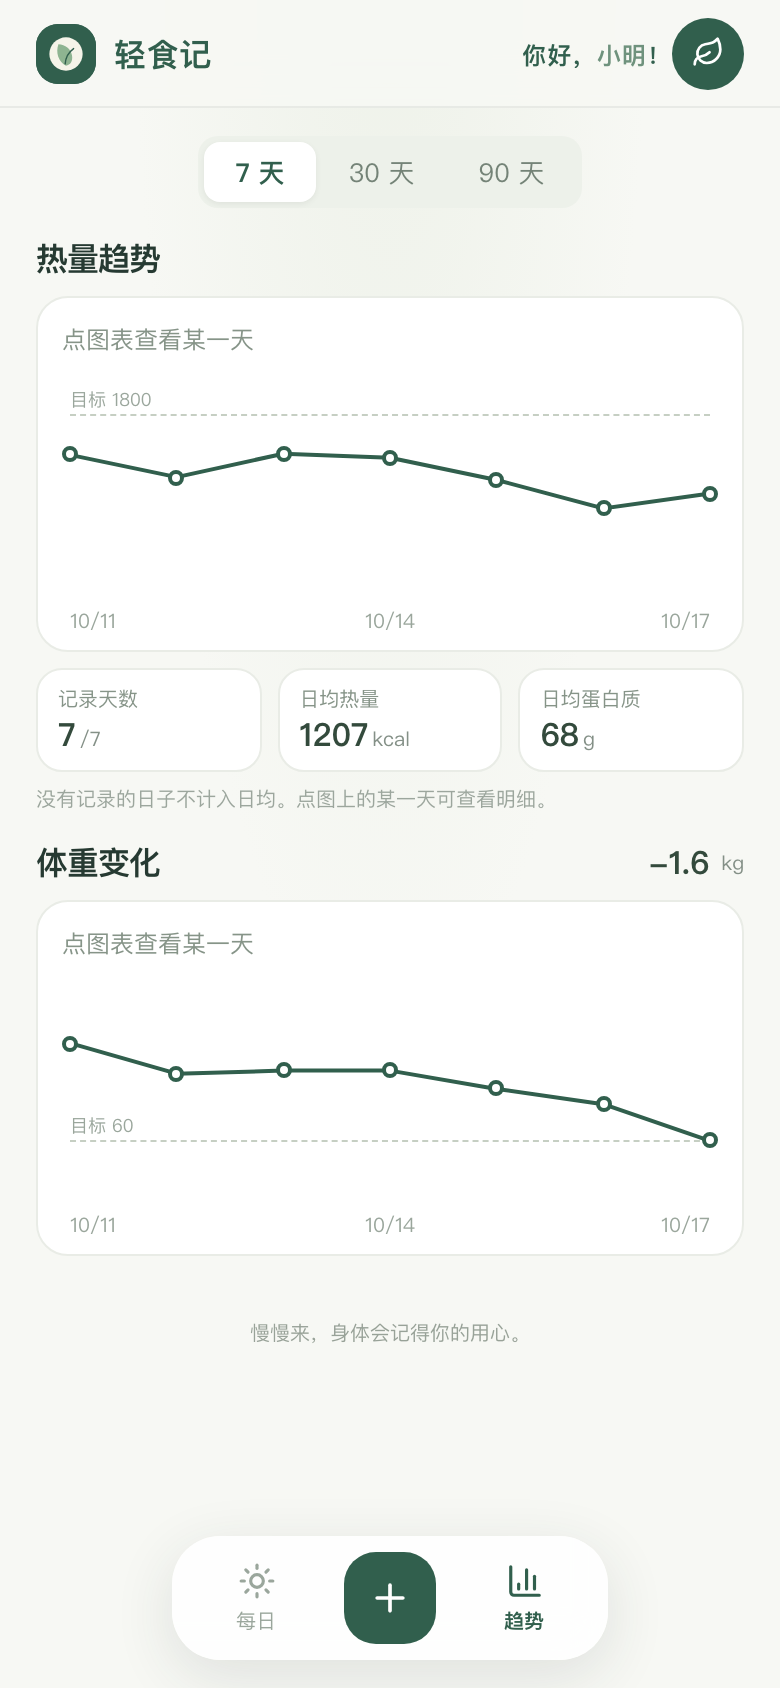
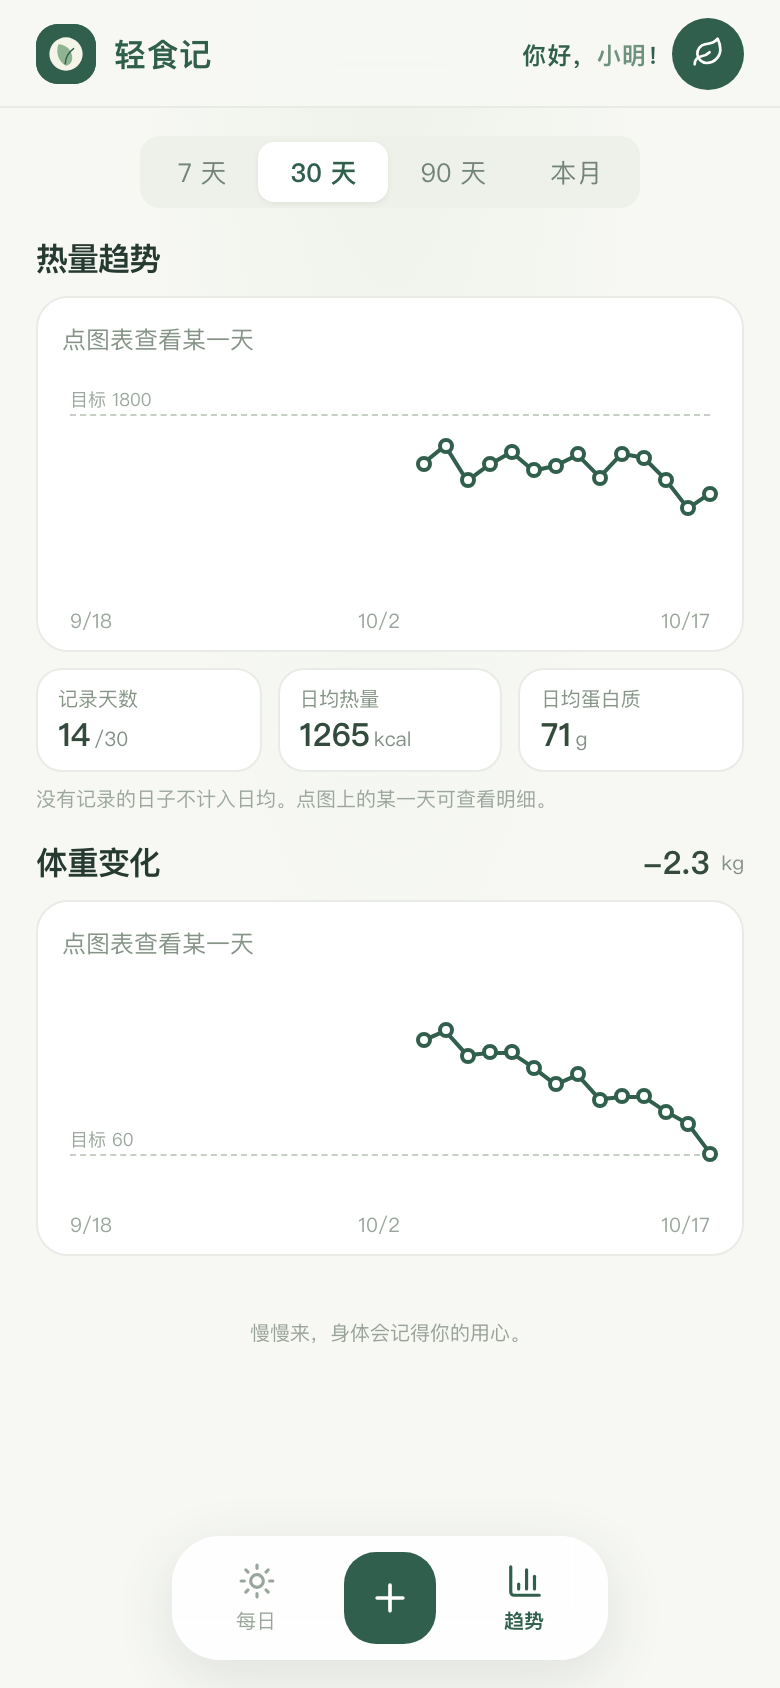
README: trends ranges and screenshot

diff --git a/README.md b/README.md
@@ -22,7 +22,7 @@
 | 今日健康 | 当天摄入汇总（热量 / 蛋白质 / 碳水 / 脂肪，进度按个人热量阈值），前后翻日期；下方是体重栏，见下文 |
 | 饮食记录 | 点记录编辑，点照片看大图；像 iOS 一样左滑露出"删除"（编辑页里也能删） |
 | 体重 | 在今日健康卡片里直接记录，记在正在查看的那一天（每天一条），立即算出与目标体重的差额；输入不限小数位，存两位，显示保留一位 |
-| 趋势 | 热量和体重折线图，7 / 30 / 90 天，点某一天查看或跳转；手机上一屏放下 |
+| 趋势 | 热量和体重折线图（都有目标线），7 / 30 / 90 天和本月，默认 30 天；点某一天查看或跳转；手机上一屏放下 |
 | 设置 | 头像（可自行更换）、昵称、性别、生日（月日）、星座（由生日推算）、热量阈值（默认 2000 kcal/天）、目标体重 |
 | 更新 | 发布新版本后，打开 App 或切回前台时自动检测并刷新；也可以在页面顶部下拉刷新，有新版本就更新，没有就只刷新数据 |
 | 启动页 / 首页 | iOS 启动图 + 应用内启动页，显示每日一句积极、健康的短句；首页顶栏头像旁显示"你好，昵称！"，每日一句在日期同一行靠右 |
